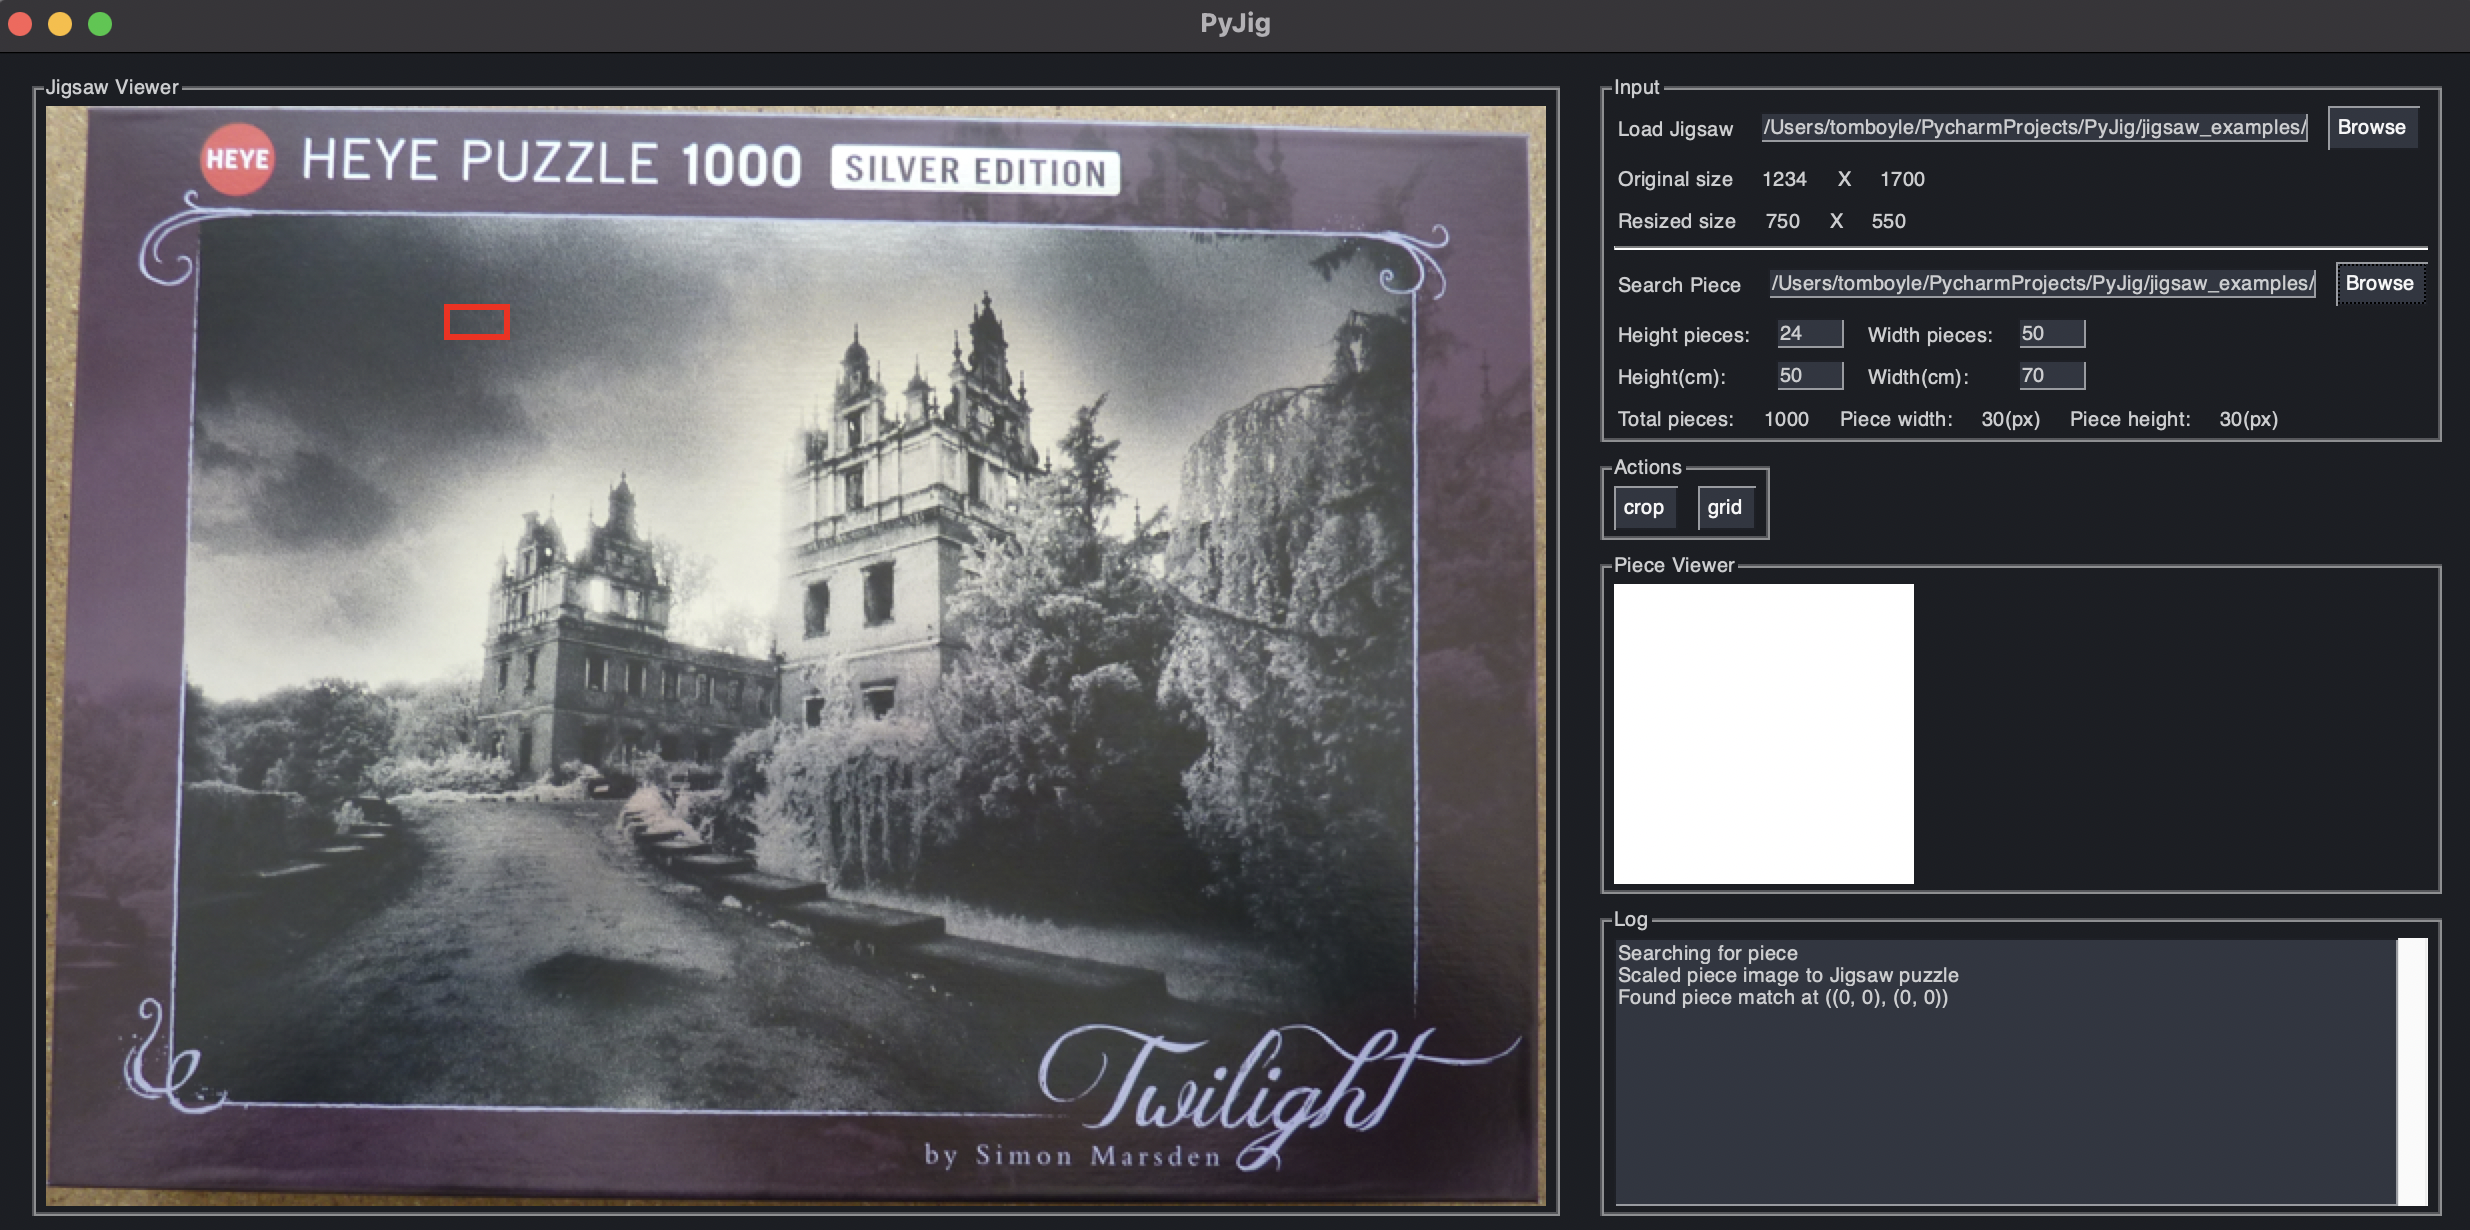
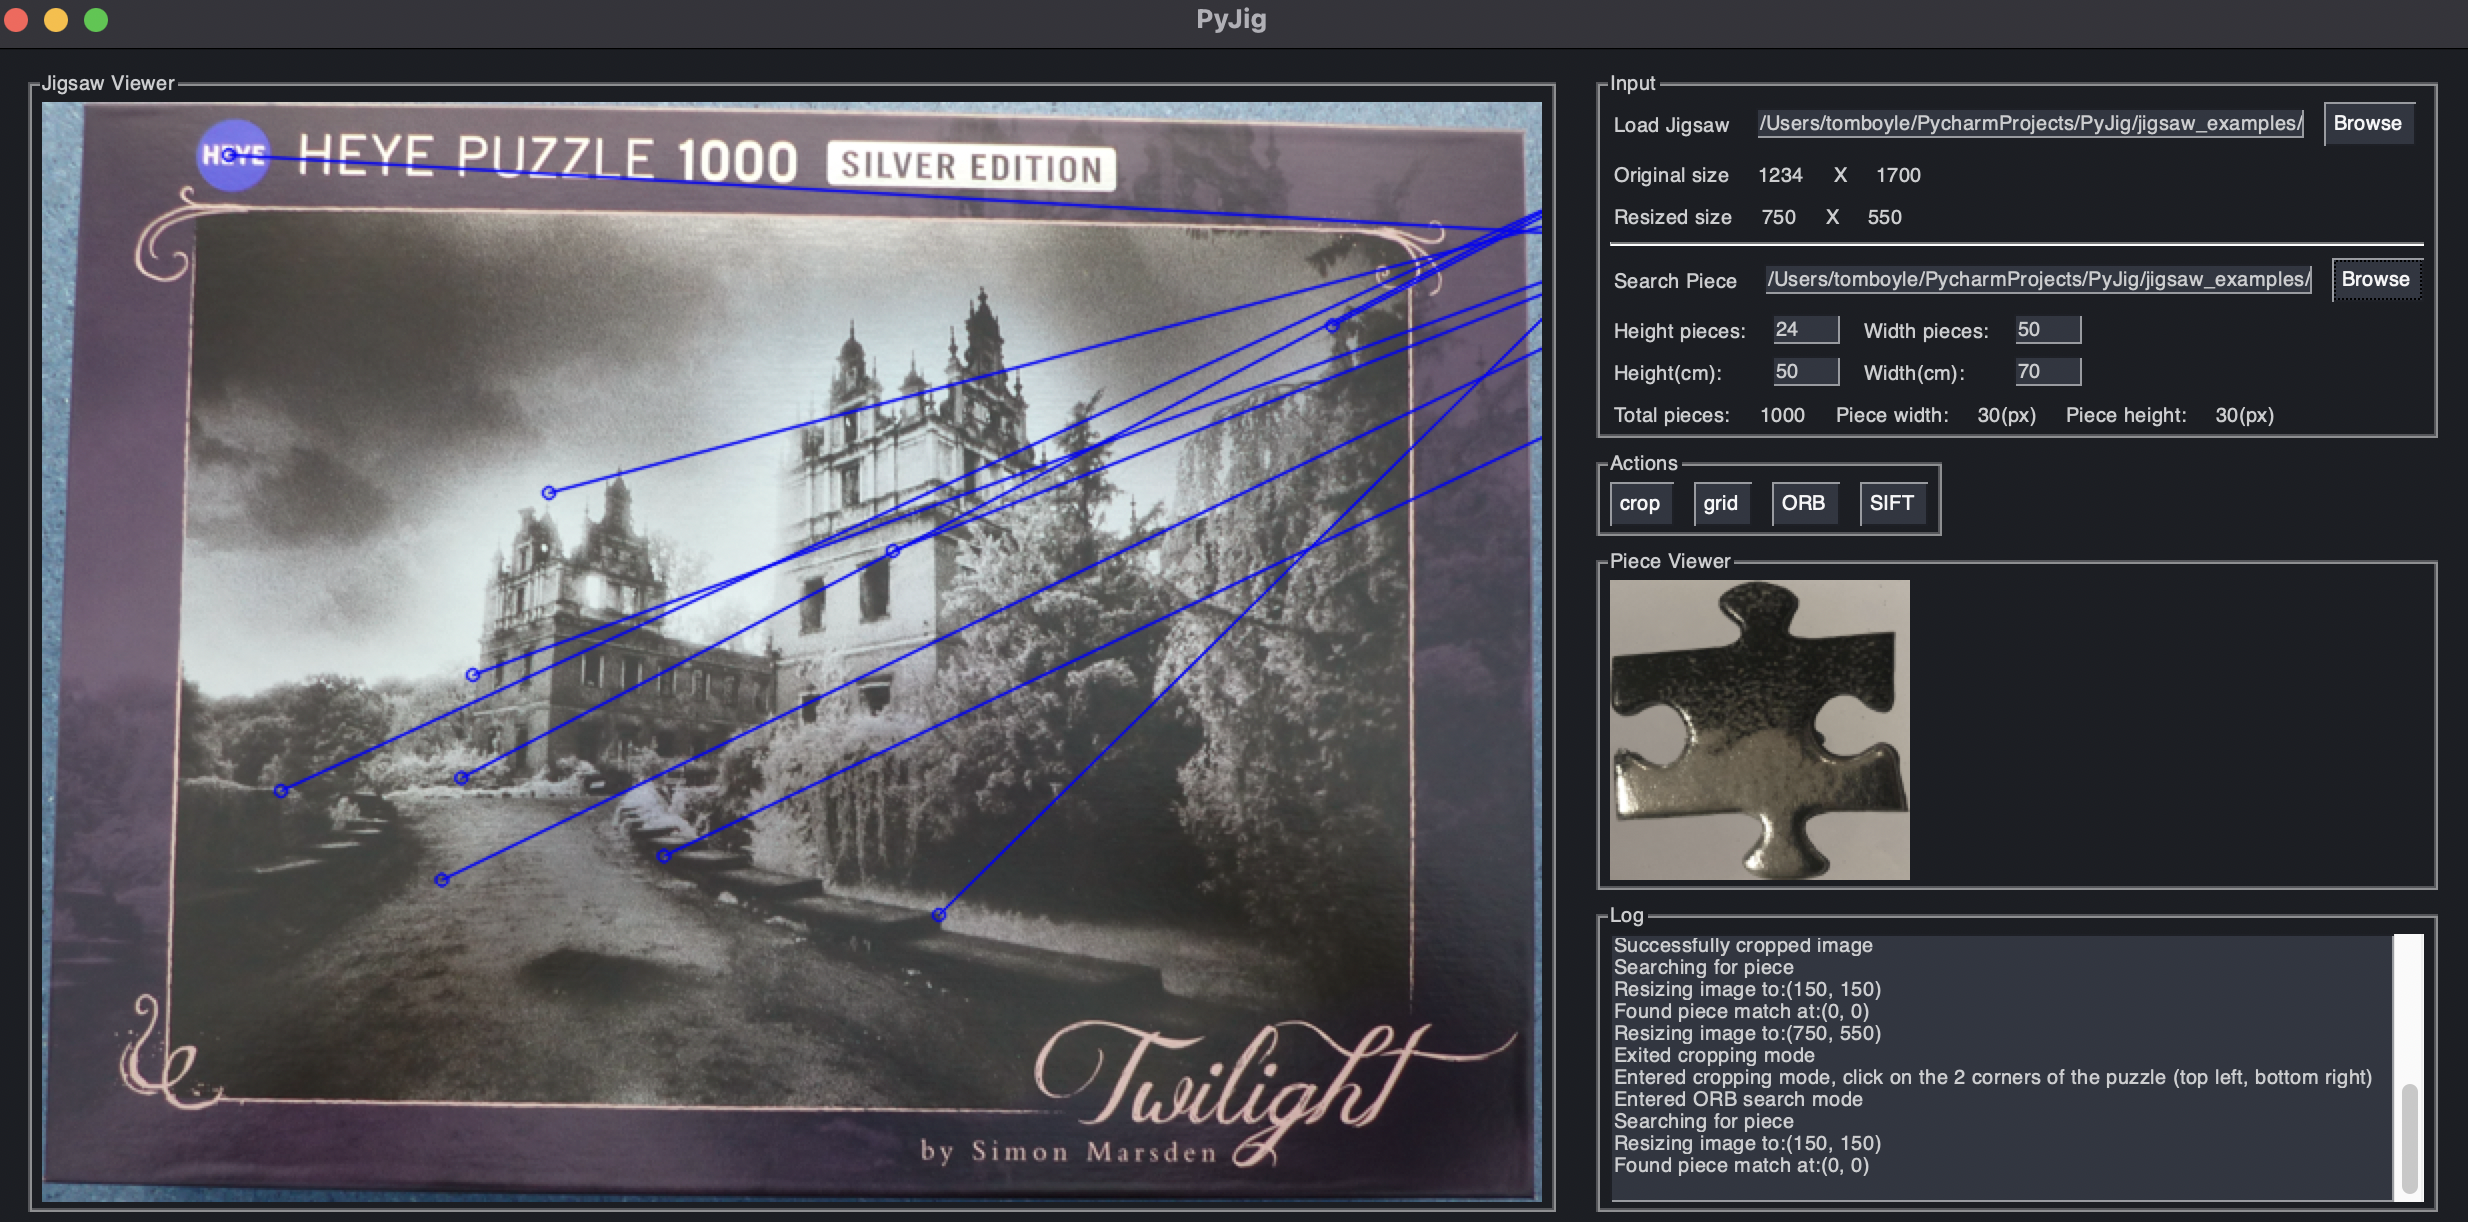
Wire SIFT and ORB search modes into UI as actions

diff --git a/src/utils/img_utils.py b/src/utils/img_utils.py
@@ -1,5 +1,5 @@
 import cv2
-import numpy
+import numpy as np
 from PIL import Image
 
 
@@ -10,7 +10,7 @@ def resize(image, size):
 
 
 def cut_image_to_grid(pil_image):
-    img = cv2.cvtColor(numpy.array(pil_image), cv2.COLOR_RGB2BGR)
+    img = cv2.cvtColor(np.array(pil_image), cv2.COLOR_RGB2BGR)
     img_height = img.shape[0]
     img_width = img.shape[1]
 
@@ -40,4 +40,81 @@ def cut_image_to_grid(pil_image):
             else:
                 cv2.rectangle(img, (x, y), (x1, y1), (0, 255, 0), 1)
 
+    return Image.fromarray(img)
+
+
+def identify_contour(piece, threshold_low=99, threshold_high=255):
+    """Identify the contour around the piece"""
+    piece = cv2.cvtColor(piece, cv2.COLOR_BGR2GRAY)  # better in grayscale
+    ret, thresh = cv2.threshold(piece, threshold_low, threshold_high, 0)
+    contours, hiers = cv2.findContours(thresh, cv2.RETR_TREE, cv2.CHAIN_APPROX_SIMPLE)
+    contour_sorted = np.argsort(list(map(cv2.contourArea, contours)))
+    return contours, contour_sorted[-2]
+
+
+def get_bounding_rect(contour):
+    """Return the bounding rectangle given a contour"""
+    x, y, w, h = cv2.boundingRect(contour)
+    return x, y, w, h
+
+
+def draw_params(matches_mask=None):
+    return dict(matchColor=(0, 0, 255),  # draw matches in blue
+                singlePointColor=(255, 0, 0),
+                matchesMask=matches_mask,  # draw only inliers
+                flags=cv2.DRAW_MATCHES_FLAGS_NOT_DRAW_SINGLE_POINTS)
+
+
+def run_ORB_search(j_img, p_img):
+    # Initiate SIFT detector
+    orb = cv2.ORB_create(nfeatures=100000, scoreType=cv2.ORB_HARRIS_SCORE, edgeThreshold=20, scaleFactor=1.5)
+
+    # find the keypoints and descriptors with SIFT
+    kp1, des1 = orb.detectAndCompute(j_img, None)
+    kp2, des2 = orb.detectAndCompute(p_img, None)
+
+    # create BFMatcher object
+    bf = cv2.BFMatcher(cv2.NORM_HAMMING, crossCheck=True)
+
+    # Match descriptors.
+    matches = bf.match(des1, des2)
+
+    # Sort them in the order of their distance.
+    matches = sorted(matches, key=lambda x: x.distance)
+
+    # Draw first 10 matches.
+    img = cv2.drawMatches(j_img, kp1, p_img, kp2, matches[:10], outImg=None, **draw_params())
+    return Image.fromarray(img)
+
+
+def run_SIFT_search(j_img, p_img):
+    # Initiate SIFT detector
+    sift = cv2.SIFT_create(10000)
+
+    # find the keypoints and descriptors with SIFT
+    kp1, des1 = sift.detectAndCompute(j_img, None)
+    kp2, des2 = sift.detectAndCompute(p_img, None)
+
+    print("Detected keypoint features")
+
+    # FLANN parameters
+    FLANN_INDEX_KDTREE = 0
+    index_params = dict(algorithm=FLANN_INDEX_KDTREE, trees=100)
+    search_params = dict(checks=500)  # or pass empty dictionary
+
+    flann = cv2.FlannBasedMatcher(index_params, search_params)
+
+    matches = flann.knnMatch(des1, des2, k=2)
+
+    print("Ran FLANN matcher")
+
+    # Need to draw only good matches, so create a mask
+    matches_mask = [[0, 0] for i in range(len(matches))]
+
+    # ratio test as per Lowe's paper
+    for i, (m, n) in enumerate(matches):
+        if m.distance < 0.7 * n.distance:
+            matches_mask[i] = [1, 0]
+
+    img = cv2.drawMatchesKnn(j_img, kp1, p_img, kp2, matches, None, **draw_params(matches_mask))
     return Image.fromarray(img)

diff --git a/src/gui/event_handlers.py b/src/gui/event_handlers.py
@@ -1,11 +1,14 @@
 import io
 import sys
 
+import cv2 as cv
+import numpy as np
+
 from PIL import Image
 
 # from gui.elements import search_piece_window
 from gui.elements import pv_canvas_size, jv_canvas_size
-from src.utils.img_utils import resize, cut_image_to_grid
+from src.utils.img_utils import resize, cut_image_to_grid, run_SIFT_search, run_ORB_search
 
 
 def handle_None_event(*_):
@@ -37,18 +40,15 @@ def handle_input_piece_event(context, event, values):
 
     infile = values['input_piece']
     original_piece_image = Image.open(infile)
-    piece_image = resize(original_piece_image, pv_canvas_size)
-    draw_image('piece_viewer', context, piece_image)
 
-    # TODO: Search puzzle for piece
-    # puzzle.grid.search()
+    p_image = resize(original_piece_image, pv_canvas_size)
+    j_image = context.get('viewer_image')
+    draw_image('piece_viewer', context, p_image)
+    mode = context.get('mode', 'ORB')
 
-    piece_x_pos = (0, 0)
-    piece_y_pos = (0, 0)
-    viewer = context.window['viewer']
-    viewer.DrawRectangle((200, 200), (230, 230), line_color="red", line_width=3)
-
-    print(f'Found piece match at ({piece_x_pos}, {piece_y_pos})')
+    print(f'Searching for piece, mode: {mode}')
+    img_with_matches = search_for_piece(j_image, p_image, mode=mode)
+    draw_image('viewer', context, img_with_matches)
 
 
 def handle_viewer_event(context, event, values):
@@ -74,7 +74,7 @@ def handle_button_crop_event(context, event, values):
     context.set('crop_cords', [])
 
     if context.get('action') == 'crop':
-        context.set('action', 'none')
+        context.set('action', None)
         print('Exited cropping mode')
     else:
         context.set('action', 'crop')
@@ -84,6 +84,30 @@ def handle_button_crop_event(context, event, values):
 def handle_button_grid_event(context, event, values):
     grid_image = cut_image_to_grid(context.get('viewer'))
     draw_image('viewer', context, grid_image)
+
+
+def handle_button_SIFT_event(context, event, values):
+    print('Set mode to SIFT')
+    context.set('mode', 'SIFT')
+
+
+def handle_button_ORB_event(context, event, values):
+    print('Set mode to ORB ')
+    context.set('mode', 'ORB')
+
+
+# TODO: Replace with Jigsaw.search()
+def search_for_piece(j_image, p_image, mode='ORB'):
+    # TODO: Determine appropriate color mode
+    j_image = cv.cvtColor(np.array(j_image), cv.COLOR_RGB2BGR)
+    p_image = cv.cvtColor(np.array(p_image), cv.COLOR_RGB2BGR)
+
+    if mode == 'ORB':
+        return run_ORB_search(j_image, p_image)
+    elif mode == 'SIFT':
+        return run_SIFT_search(j_image, p_image)
+    else:
+        raise Exception(f'Invalid mode specified: {mode}')
 
 
 def draw_image(key, context, image, pos=(0, 0)):

diff --git a/src/gui/elements.py b/src/gui/elements.py
@@ -60,7 +60,7 @@ input_frame = frame('Input', [
 ], expand_y=False)
 
 actions_frame = sg.Frame('Actions', [
-    [button('crop'), button('grid')]
+    [button('crop'), button('grid'), button('ORB'), button('SIFT')]
 ])
 log_frame = frame('Log', [
     [sg.Multiline(key='log', expand_y=True, expand_x=True, echo_stdout_stderr=True, autoscroll=True,

diff --git a/src/gui/context.py b/src/gui/context.py
@@ -10,8 +10,8 @@ class WindowContext():
             'puzzle': None
         }
 
-    def get(self, k):
-        return self.state[k]
+    def get(self, k, default=None):
+        return self.state.get(k, default)
 
     def set(self, k, v):
         self.state[k] = v
